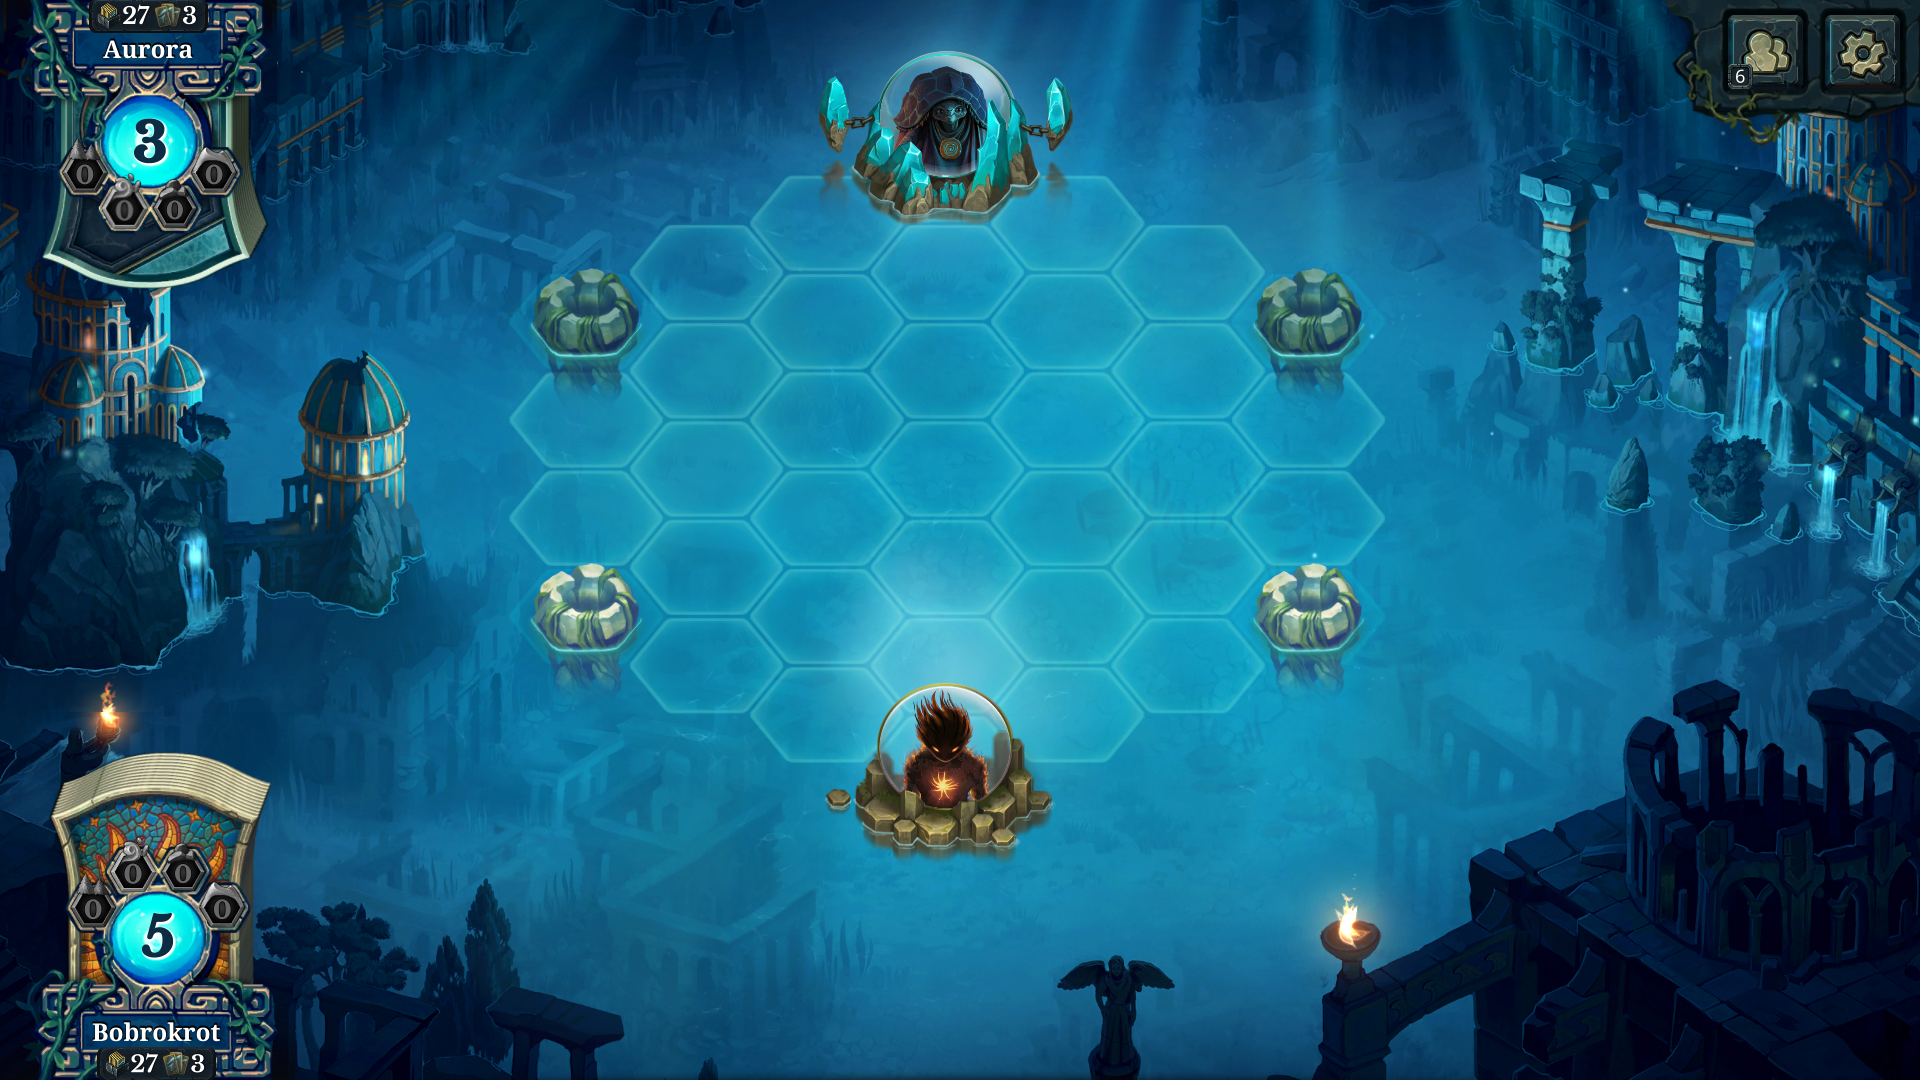
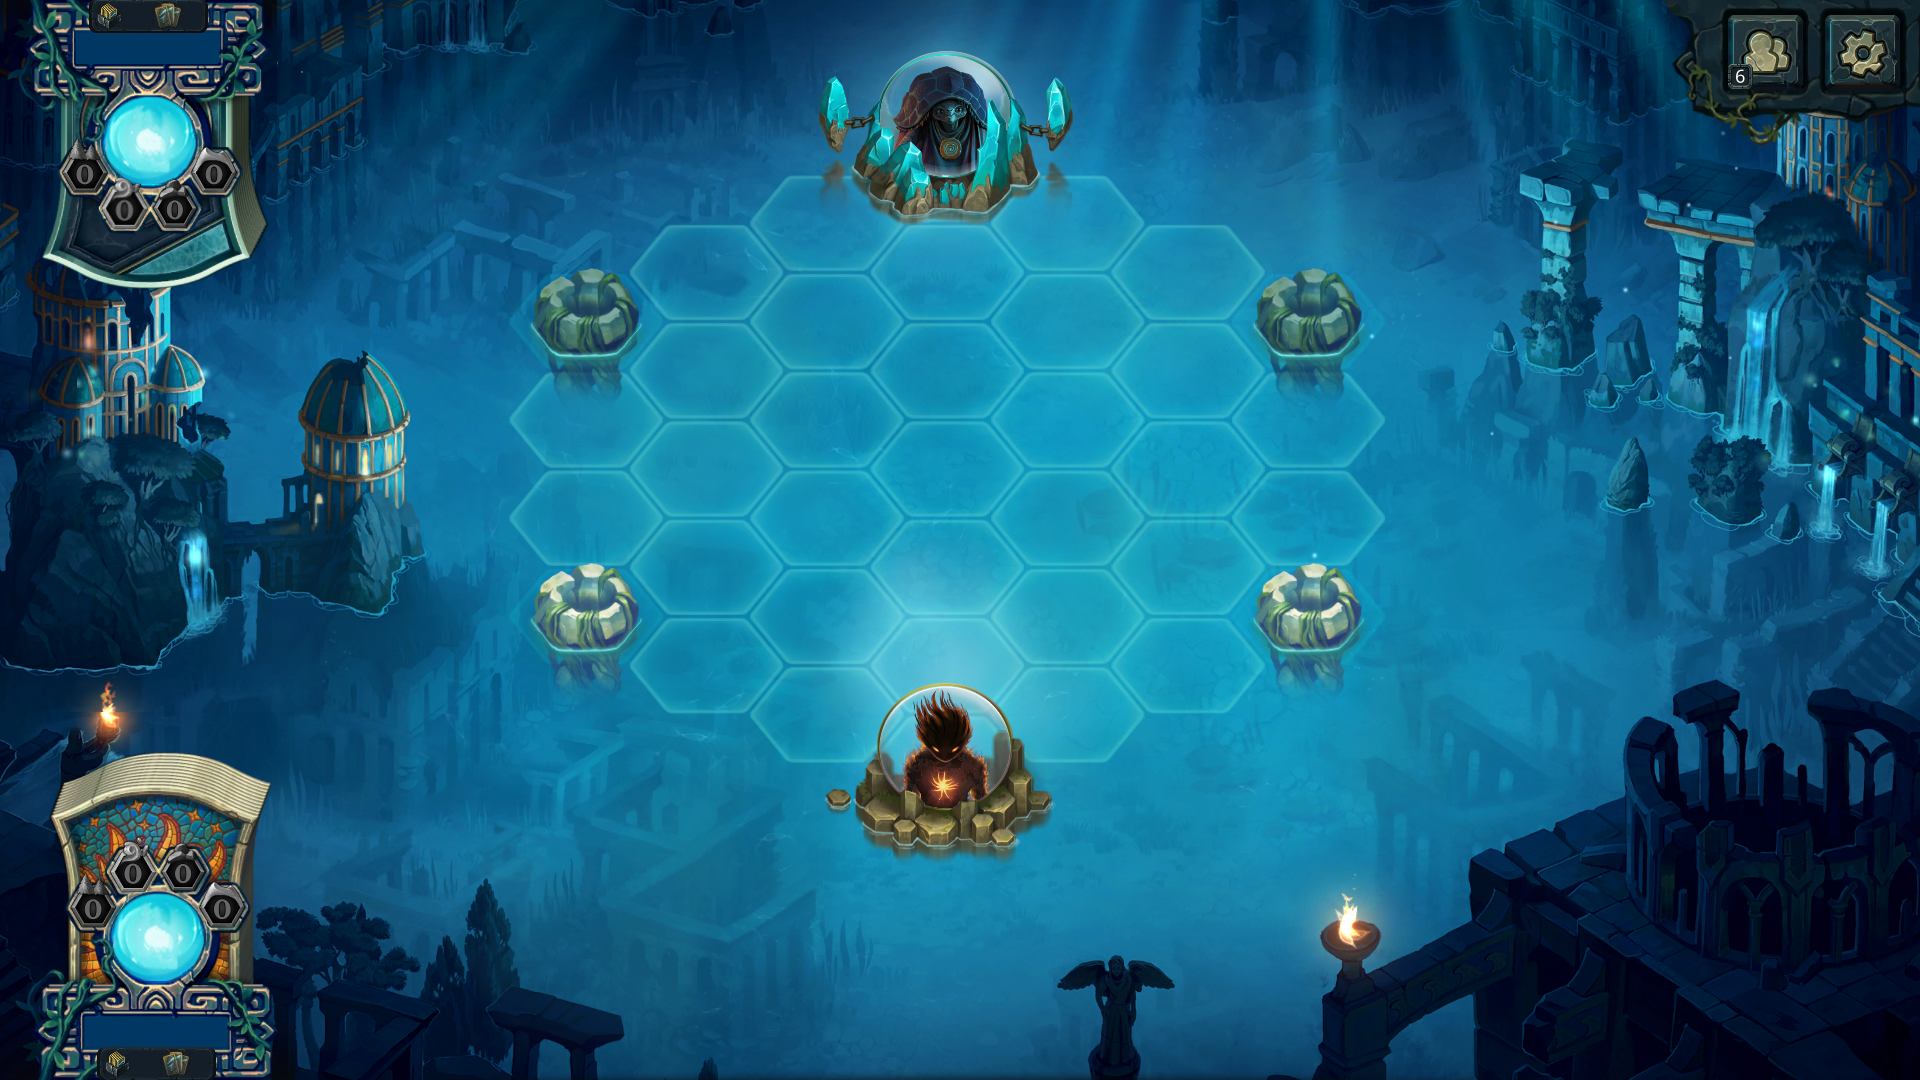
[add] nicknames

diff --git a/frontend/canvas_events.js b/frontend/canvas_events.js
@@ -1,6 +1,7 @@
 
 var elementChanged = new Event('elementChanged'),
-	elements = [],
+	//textChanged = new Event('textChanged'),
+	elements = [], textelements = [],
 	canvas = document.getElementById("myCanvas"),
 	ctx = canvas.getContext("2d");
 
@@ -9,12 +10,34 @@ canvas.addEventListener('elementChanged', function () {
 		var el = elements[i];
 		ctx.drawImage(el.img, el.x, el.y, el.width, el.height);
 	}
+	for (i = 0; i < textelements.length; i++) {
+		var el = textelements[i];
+		ctx.font = el.font;
+		ctx.shadowColor = "black";
+		ctx.shadowOffsetX = 5; 
+		ctx.shadowOffsetY = 5; 
+		ctx.shadowBlur = 7;
+		if (typeof el.color !== 'undefined') {
+			ctx.fillStyle = el.color;
+		} else {
+			ctx.fillStyle = 'white';
+		}
+		ctx.textAlign = "center";
+		ctx.fillText(el.text, el.x + el.width/2, el.y + el.height*2/3);
+	}
 });
+
 canvas.addEventListener('click', function(event) {
     var x = (event.pageX - canvas.offsetLeft)/canvas.clientWidth*canvas.width,
         y = (event.pageY - canvas.offsetTop)/canvas.clientHeight*canvas.height;
 	//alert(x.toString() + " " + y.toString());
-	
+	for (i = textelements.length-1; i >= 0; i--) {
+		var el = textelements[i];
+		if (el.x < x &&  x < el.x+el.width && el.y < y && y < el.y + el.height) {
+			el.onclick(event);
+			break;
+		}
+	}
 	for (i = elements.length-1; i >= 0; i--) {
 		var el = elements[i];
 		if (el.x < x &&  x < el.x+el.width && el.y < y && y < el.y + el.height) {
@@ -41,6 +64,27 @@ powerwheel.onclick = function (event) {
 elements.push(powerwheel);
 powerwheel.setImage(1);
 
+var nickname1 = new TextElement("18px Libre Baskerville", 85, 1017, 142, 30);
+nickname1.color = 'white';
+nickname1.onclick = function (event) {
+	$('#myTab a[href="#general"]').tab('show');
+	$('#form_name').focus();
+};
+textelements.push(nickname1);
+$('#form_name').on('input', function (event) {
+	nickname1.setText($('#form_name').val());
+});
+
+var nickname2 = new TextElement("18px Libre Baskerville", 76, 34, 142, 30);
+nickname1.color = 'white';
+nickname2.onclick = function (event) {
+	$('#myTab a[href="#general"]').tab('show');
+	$('#form_name2').focus();
+};
+textelements.push(nickname2);
+$('#form_name2').on('input', function (event) {
+	nickname2.setText($('#form_name2').val());
+});
 function ImageElement(img, x, y, w, h) {
 	this.img = img;
 	this.x = x;
@@ -54,5 +98,17 @@ function ImageElement(img, x, y, w, h) {
 		this.img.onload = function () {
 			canvas.dispatchEvent(elementChanged);
 		};
+	};
+}
+function TextElement(font, x, y, w, h) {
+	this.font = font;
+	this.x = x;
+	this.y = y;
+	this.width = w;
+	this.height = h;
+	this.text = "";
+	this.setText = function (text) {
+		this.text = text;
+		canvas.dispatchEvent(elementChanged);
 	};
 }

diff --git a/frontend/maker.html b/frontend/maker.html
@@ -14,14 +14,14 @@
 	<canvas id="myCanvas" class="img-responsive" width="1920" height="1080" style="border:1px solid #d3d3d3;">
 		Your browser does not support the HTML5 canvas tag.
 	</canvas>
-	<ul class="nav nav-tabs">
+	<ul class="nav nav-tabs" id="myTab">
 		<li class="active"><a data-toggle="tab" href="#general">Genreal</a></li>
 		<li><a data-toggle="tab" href="#hand">Hand</a></li>
 		<li><a data-toggle="tab" href="#lands">Lands</a></li>
 		<li><a data-toggle="tab" href="#creatures">Creatures</a></li>
 	</ul>
 	<div class="tab-content">
-		<div id="general" class="tab-pane fade in active">
+		<div id="general" class="tab-pane active">
 			<p>General</p>
 				<form class="form-inline">
 					<div class="row">
@@ -69,7 +69,7 @@
 				</form>
 					
 		</div>
-		<div id="hand" class="tab-pane fade">
+		<div id="hand" class="tab-pane">
 			<p>Hand</p>
 			<div class="row">
 			  <div class="col-sm-4">.col-sm-4</div>
@@ -77,10 +77,16 @@
 			  <div class="col-sm-4">.col-sm-4</div>
 			</div>
 		</div>
-		<div id="lands" class="tab-pane fade">
+		<div id="lands" class="tab-pane">
 			<p>Lands</p>
+			<form>
+				<div class="input-group">
+					<span class="input-group-addon">Whatever:</span>
+					<input class="form-control" type="text" id="exampletext" placeholder="Example">
+				</div>
+			</form>
 		</div>
-		<div id="creatures" class="tab-pane fade">
+		<div id="creatures" class="tab-pane">
 			<p>Creatures</p>
 		</div>
 	</div>
